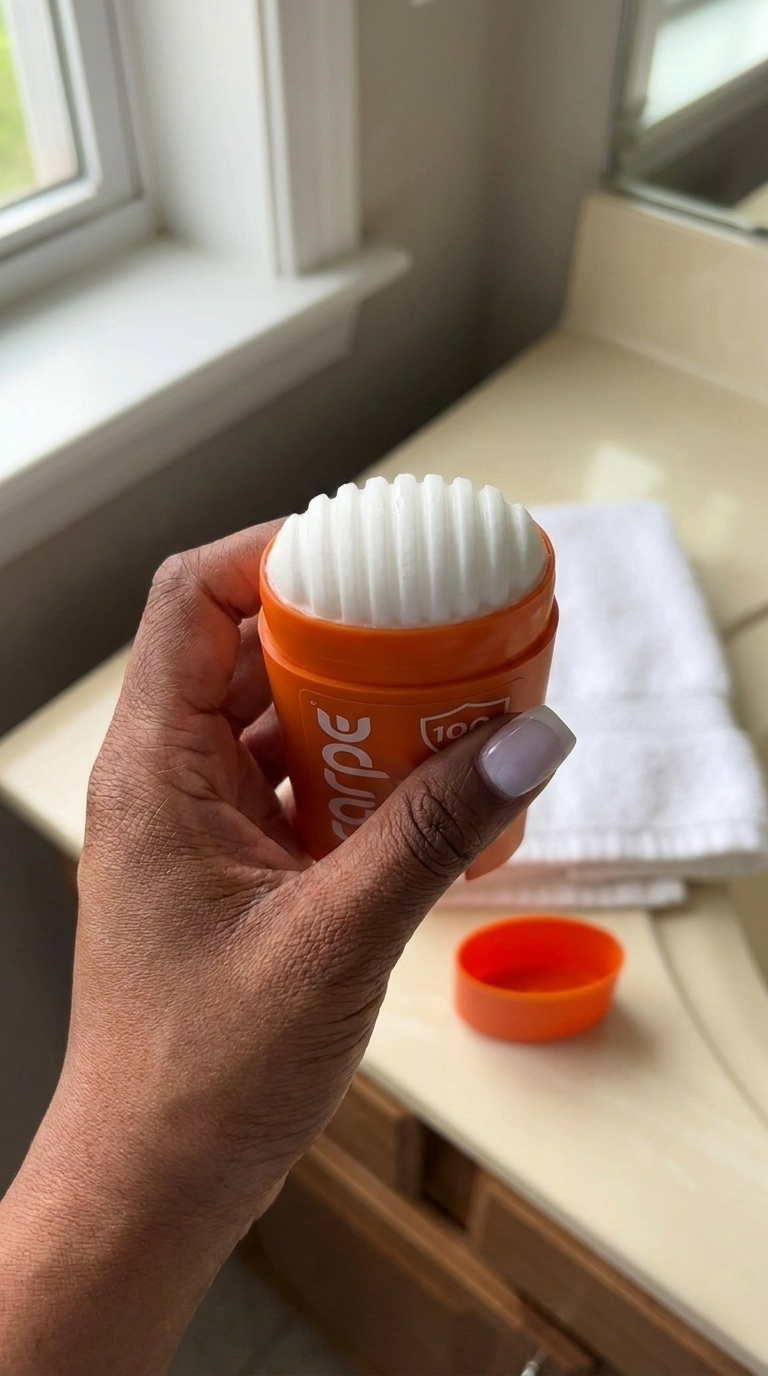
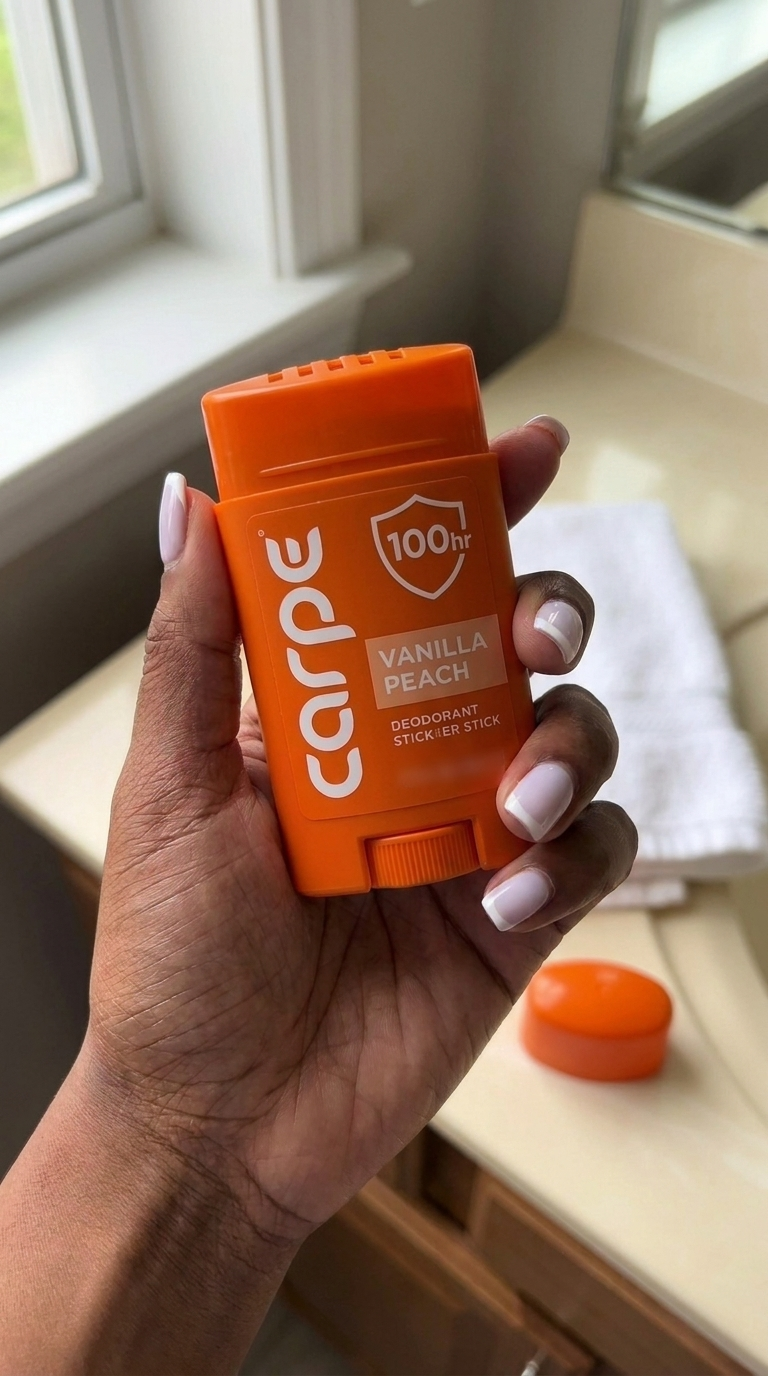
Carpe ad: slotted-top product ref (from Ralph's prompt), S2 remade, S3–S7 stills
Claude-Session: https://claude.ai/code/session_01CGzYzZzx9Zrr4HNrKdzh8N

diff --git a/ugc/carpe-vanilla-peach/kie.py b/ugc/carpe-vanilla-peach/kie.py
@@ -15,7 +15,7 @@ UPLOAD = "https://kieai.redpandaai.co/api/file-stream-upload"
 J = json.loads(Path("shots.json").read_text())
 SHOTS = {s["id"]: s for s in J["shots"]}
 MAIN = [s["id"] for s in J["shots"]]
-REFS = ["refs/hand_dorsal.png", "refs/hand_palm.png", "refs/product_front.png", "refs/product_open.png",
+REFS = ["refs/hand_dorsal.png", "refs/hand_palm.png", "refs/product_front.png", "refs/product_slots.png",
         "refs/product_profile.png"]
 ROOM = "stills/S1.png"  # first approved still doubles as the room reference
 KEY = os.environ.get("KIE_API_KEY")
